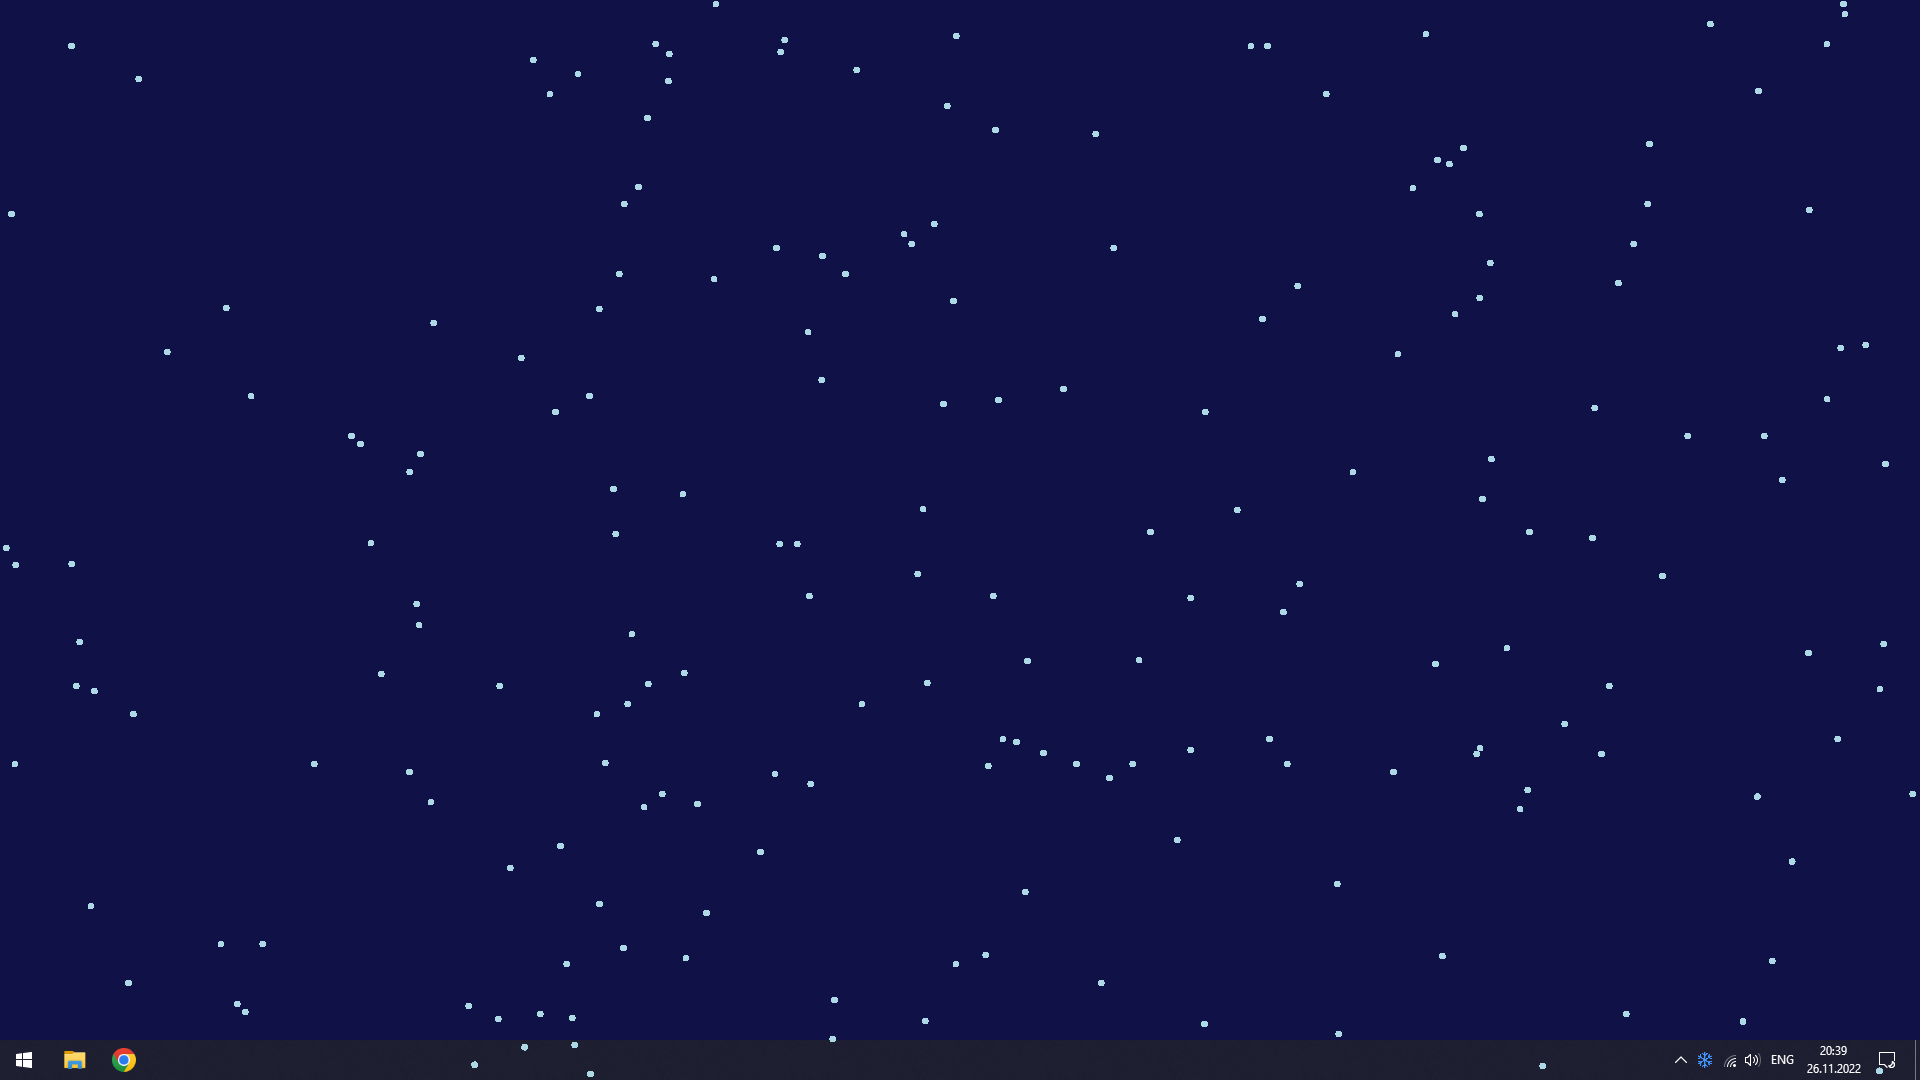
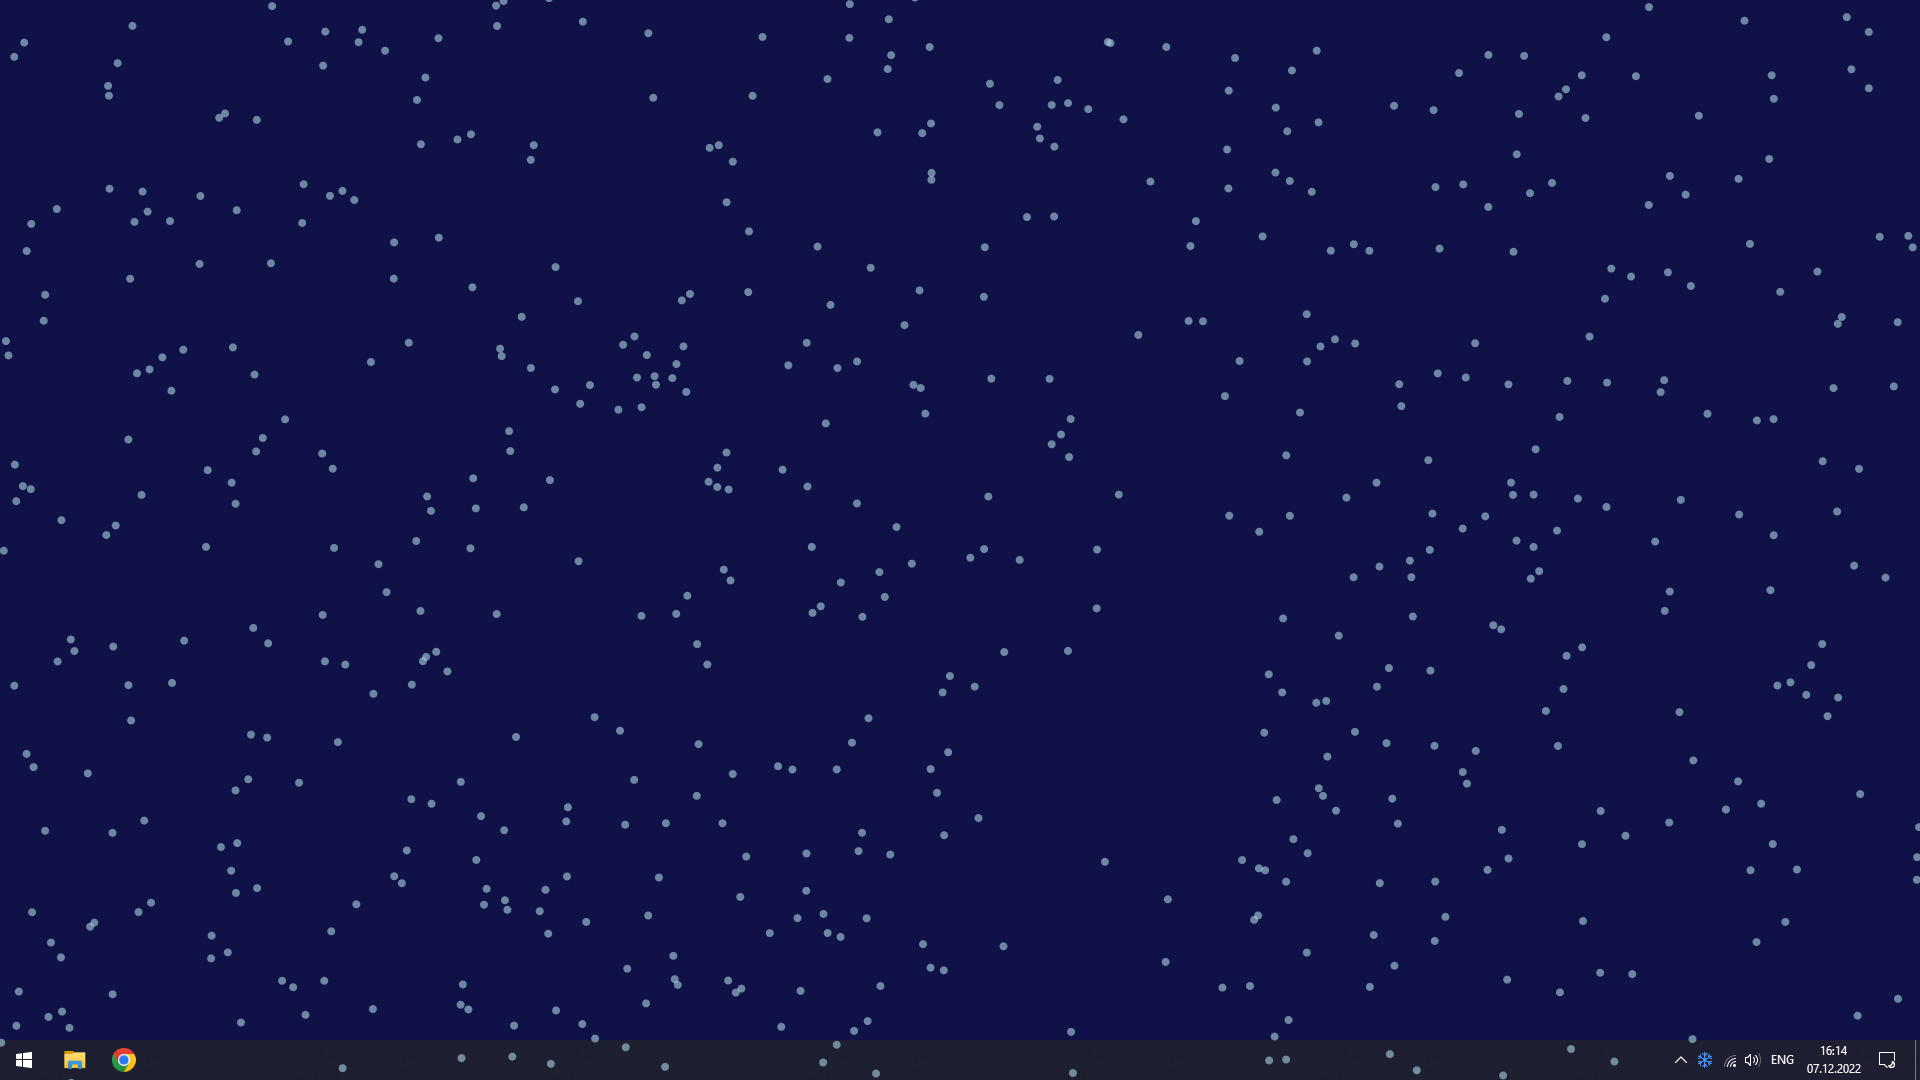
docs

Changed region(s): [[0.25, 0.825, 0.2812, 0.8556], [0.0312, 0.5806, 0.0625, 0.6111]]

diff --git a/README.md b/README.md
@@ -7,11 +7,16 @@
 
 Снежинки падают поверх всего, ничему не мешая.
 
+Со временем появляются сугробы, которые можно разгребать мышкой. (Можно отключить)
+
+Для снежинок можно выбрать любую картинку.
+
 Можно выделить область, где не будет видно снежинок.
 * ЛКМ по иконке -> Выделение области
 * Двойной ЛКМ по иконке -> Очистить область
 
 ![](./docs/screenshot.png)
+![](./docs/screenshot2.png)
 
 ### Можно настроить под себя
 ![](./docs/settings.png)
